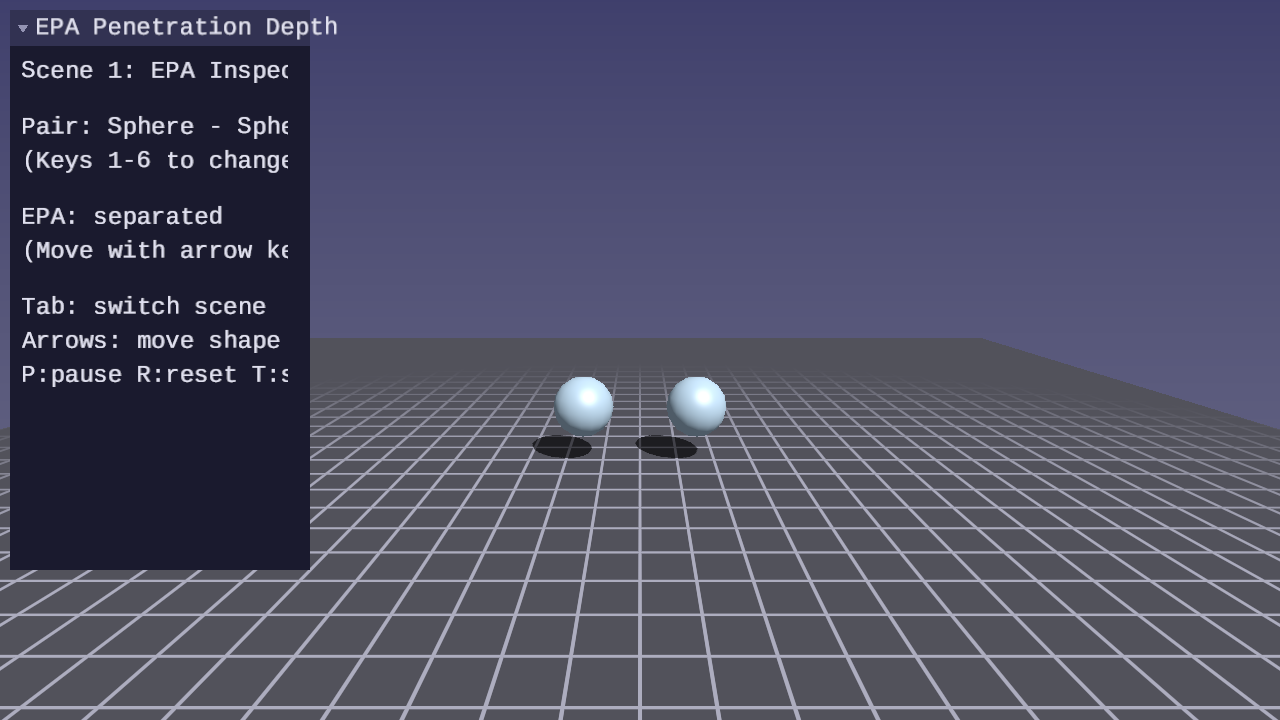
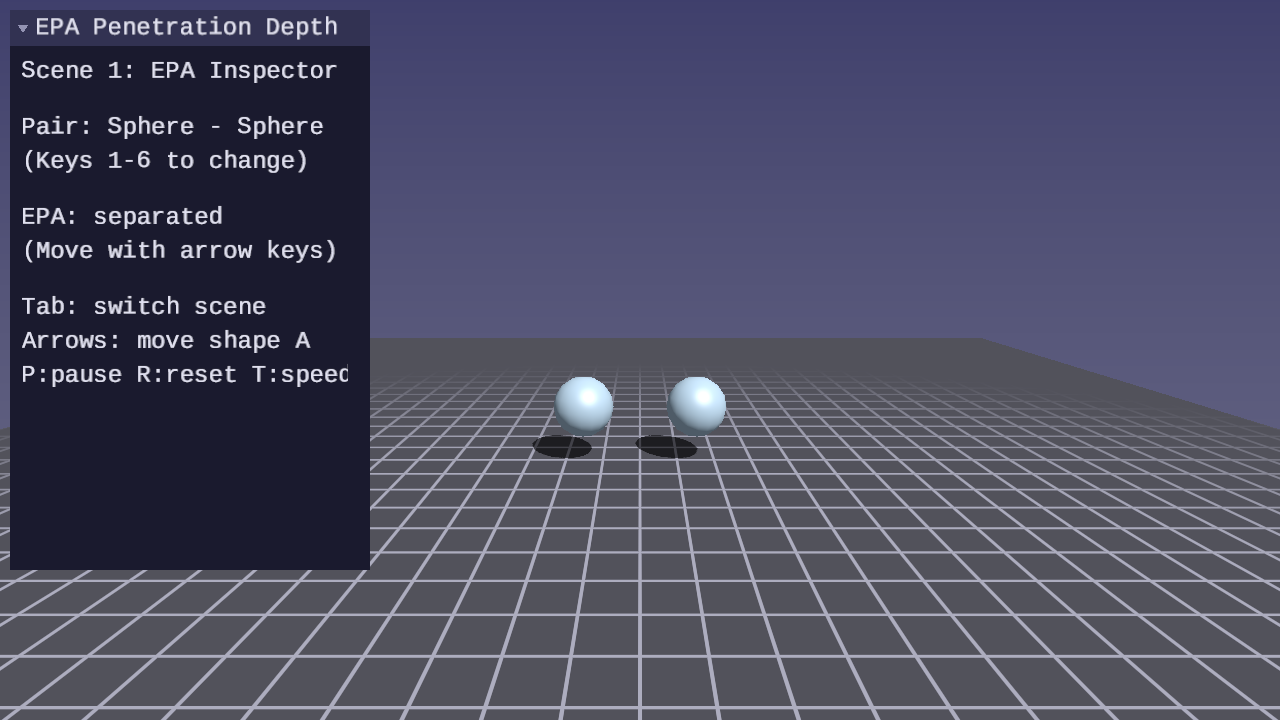
Update: Widen UI panel in Physics Lesson 10 (#358)
Increase PANEL_W from 300 to 360 for better readability.
Retake screenshot to reflect the wider panel.

Files changed:
- lessons/physics/10-epa-penetration-depth/main.c — PANEL_W 300→360
- lessons/physics/10-epa-penetration-depth/assets/screenshot.png — retaken

Changed region(s): [[0.2188, 0.0, 0.3125, 0.7944]]

diff --git a/lessons/physics/10-epa-penetration-depth/main.c b/lessons/physics/10-epa-penetration-depth/main.c
@@ -130,7 +130,7 @@
 /* UI panel layout */
 #define PANEL_X             10.0f
 #define PANEL_Y             10.0f
-#define PANEL_W            300.0f
+#define PANEL_W            360.0f
 #define PANEL_H            560.0f
 #define LABEL_HEIGHT        24.0f
 #define LABEL_SPACER        (LABEL_HEIGHT * 0.5f)
